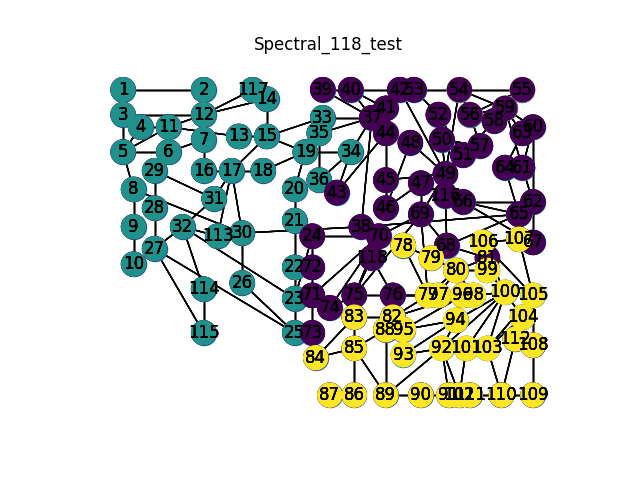
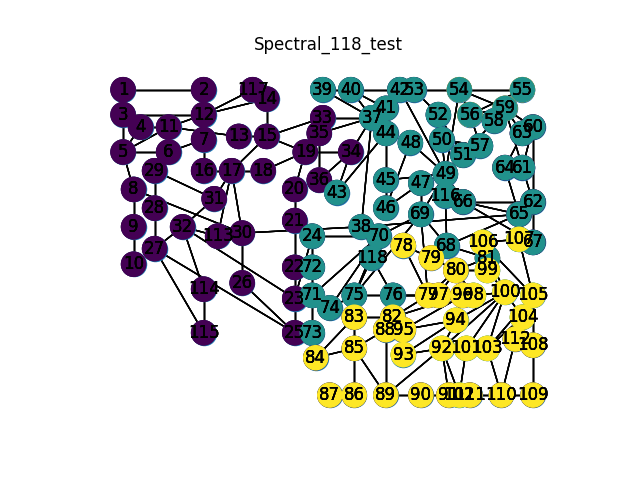
Novos testes

Changed region(s): [[0.1562, 0.1562, 0.875, 0.7188], [0.2812, 0.5625, 0.4062, 0.625], [0.2812, 0.6562, 0.3438, 0.7188]]

diff --git a/.history/test_clustering_20210921141827.py b/.history/test_clustering_20210921141827.py
@@ -173,21 +173,21 @@ nx.draw_networkx(G,coord,with_labels=True)
 edge_mat = graph_to_edge_matrix(G)
 print(edge_mat)
 
-k_clusters = 3
+k_clusters = 4
 results = []
 algorithms = {}
 
 #K-Means
-algorithms['kmeans'] = cluster.KMeans(n_clusters=k_clusters, n_init=118)
+algorithms['kmeans'] = cluster.KMeans(n_clusters=k_clusters, n_init=2)
 
 #Agglomerative Clustering
 algorithms['agglom'] = cluster.AgglomerativeClustering(n_clusters=k_clusters, linkage="ward")
 
 #Spectral Clustering
-algorithms['spectral'] = cluster.SpectralClustering(n_clusters=k_clusters, affinity="precomputed", n_init=118, assign_labels="discretize")
+algorithms['spectral'] = cluster.SpectralClustering(n_clusters=k_clusters, affinity="precomputed", n_init=2, assign_labels="discretize")
 
 #Affinity Propagation
-algorithms['affinity'] = cluster.AffinityPropagation(damping=0.8)
+algorithms['affinity'] = cluster.AffinityPropagation(damping=0.5)
 
 # Fit all models
 for model in algorithms.values():

diff --git a/.history/test_clustering_20210921141903.py b/.history/test_clustering_20210921141903.py
@@ -173,21 +173,21 @@ nx.draw_networkx(G,coord,with_labels=True)
 edge_mat = graph_to_edge_matrix(G)
 print(edge_mat)
 
-k_clusters = 3
+k_clusters = 2
 results = []
 algorithms = {}
 
 #K-Means
-algorithms['kmeans'] = cluster.KMeans(n_clusters=k_clusters, n_init=118)
+algorithms['kmeans'] = cluster.KMeans(n_clusters=k_clusters, n_init=2)
 
 #Agglomerative Clustering
 algorithms['agglom'] = cluster.AgglomerativeClustering(n_clusters=k_clusters, linkage="ward")
 
 #Spectral Clustering
-algorithms['spectral'] = cluster.SpectralClustering(n_clusters=k_clusters, affinity="precomputed", n_init=118, assign_labels="discretize")
+algorithms['spectral'] = cluster.SpectralClustering(n_clusters=k_clusters, affinity="precomputed", n_init=2, assign_labels="discretize")
 
 #Affinity Propagation
-algorithms['affinity'] = cluster.AffinityPropagation(damping=0.8)
+algorithms['affinity'] = cluster.AffinityPropagation(damping=0.5)
 
 # Fit all models
 for model in algorithms.values():

diff --git a/.history/test_clustering_20210921141740.py b/.history/test_clustering_20210921141740.py
@@ -173,21 +173,21 @@ nx.draw_networkx(G,coord,with_labels=True)
 edge_mat = graph_to_edge_matrix(G)
 print(edge_mat)
 
-k_clusters = 3
+k_clusters = 4
 results = []
 algorithms = {}
 
 #K-Means
-algorithms['kmeans'] = cluster.KMeans(n_clusters=k_clusters, n_init=118)
+algorithms['kmeans'] = cluster.KMeans(n_clusters=k_clusters, n_init=2)
 
 #Agglomerative Clustering
 algorithms['agglom'] = cluster.AgglomerativeClustering(n_clusters=k_clusters, linkage="ward")
 
 #Spectral Clustering
-algorithms['spectral'] = cluster.SpectralClustering(n_clusters=k_clusters, affinity="precomputed", n_init=118, assign_labels="discretize")
+algorithms['spectral'] = cluster.SpectralClustering(n_clusters=k_clusters, affinity="precomputed", n_init=2)
 
 #Affinity Propagation
-algorithms['affinity'] = cluster.AffinityPropagation(damping=0.8)
+algorithms['affinity'] = cluster.AffinityPropagation(damping=0.5)
 
 # Fit all models
 for model in algorithms.values():

diff --git a/.history/test_clustering_20210921141527.py b/.history/test_clustering_20210921141527.py
@@ -173,7 +173,7 @@ nx.draw_networkx(G,coord,with_labels=True)
 edge_mat = graph_to_edge_matrix(G)
 print(edge_mat)
 
-k_clusters = 3
+k_clusters = 4
 results = []
 algorithms = {}
 
@@ -184,10 +184,10 @@ algorithms['kmeans'] = cluster.KMeans(n_clusters=k_clusters, n_init=118)
 algorithms['agglom'] = cluster.AgglomerativeClustering(n_clusters=k_clusters, linkage="ward")
 
 #Spectral Clustering
-algorithms['spectral'] = cluster.SpectralClustering(n_clusters=k_clusters, affinity="precomputed", n_init=118, assign_labels="discretize")
+algorithms['spectral'] = cluster.SpectralClustering(n_clusters=k_clusters, affinity="precomputed", n_init=118)
 
 #Affinity Propagation
-algorithms['affinity'] = cluster.AffinityPropagation(damping=0.8)
+algorithms['affinity'] = cluster.AffinityPropagation(damping=0.4)
 
 # Fit all models
 for model in algorithms.values():

diff --git a/.history/test_clustering_20210921141626.py b/.history/test_clustering_20210921141626.py
@@ -173,7 +173,7 @@ nx.draw_networkx(G,coord,with_labels=True)
 edge_mat = graph_to_edge_matrix(G)
 print(edge_mat)
 
-k_clusters = 3
+k_clusters = 4
 results = []
 algorithms = {}
 
@@ -184,10 +184,10 @@ algorithms['kmeans'] = cluster.KMeans(n_clusters=k_clusters, n_init=118)
 algorithms['agglom'] = cluster.AgglomerativeClustering(n_clusters=k_clusters, linkage="ward")
 
 #Spectral Clustering
-algorithms['spectral'] = cluster.SpectralClustering(n_clusters=k_clusters, affinity="precomputed", n_init=118, assign_labels="discretize")
+algorithms['spectral'] = cluster.SpectralClustering(n_clusters=k_clusters, affinity="precomputed", n_init=118)
 
 #Affinity Propagation
-algorithms['affinity'] = cluster.AffinityPropagation(damping=0.8)
+algorithms['affinity'] = cluster.AffinityPropagation(damping=0.5)
 
 # Fit all models
 for model in algorithms.values():

diff --git a/.history/test_clustering_20210921141726.py b/.history/test_clustering_20210921141726.py
@@ -173,7 +173,7 @@ nx.draw_networkx(G,coord,with_labels=True)
 edge_mat = graph_to_edge_matrix(G)
 print(edge_mat)
 
-k_clusters = 3
+k_clusters = 4
 results = []
 algorithms = {}
 
@@ -184,10 +184,10 @@ algorithms['kmeans'] = cluster.KMeans(n_clusters=k_clusters, n_init=118)
 algorithms['agglom'] = cluster.AgglomerativeClustering(n_clusters=k_clusters, linkage="ward")
 
 #Spectral Clustering
-algorithms['spectral'] = cluster.SpectralClustering(n_clusters=k_clusters, affinity="precomputed", n_init=118, assign_labels="discretize")
+algorithms['spectral'] = cluster.SpectralClustering(n_clusters=k_clusters, affinity="precomputed", n_init=100)
 
 #Affinity Propagation
-algorithms['affinity'] = cluster.AffinityPropagation(damping=0.8)
+algorithms['affinity'] = cluster.AffinityPropagation(damping=0.5)
 
 # Fit all models
 for model in algorithms.values():

diff --git a/.history/test_clustering_20210921141943.py b/.history/test_clustering_20210921141943.py
@@ -178,16 +178,16 @@ results = []
 algorithms = {}
 
 #K-Means
-algorithms['kmeans'] = cluster.KMeans(n_clusters=k_clusters, n_init=118)
+algorithms['kmeans'] = cluster.KMeans(n_clusters=k_clusters, n_init=2)
 
 #Agglomerative Clustering
 algorithms['agglom'] = cluster.AgglomerativeClustering(n_clusters=k_clusters, linkage="ward")
 
 #Spectral Clustering
-algorithms['spectral'] = cluster.SpectralClustering(n_clusters=k_clusters, affinity="precomputed", n_init=118, assign_labels="discretize")
+algorithms['spectral'] = cluster.SpectralClustering(n_clusters=k_clusters, affinity="precomputed", n_init=2, assign_labels="discretize")
 
 #Affinity Propagation
-algorithms['affinity'] = cluster.AffinityPropagation(damping=0.8)
+algorithms['affinity'] = cluster.AffinityPropagation(damping=0.5)
 
 # Fit all models
 for model in algorithms.values():

diff --git a/.history/test_clustering_20210921142047.py b/.history/test_clustering_20210921142047.py
@@ -184,10 +184,10 @@ algorithms['kmeans'] = cluster.KMeans(n_clusters=k_clusters, n_init=118)
 algorithms['agglom'] = cluster.AgglomerativeClustering(n_clusters=k_clusters, linkage="ward")
 
 #Spectral Clustering
-algorithms['spectral'] = cluster.SpectralClustering(n_clusters=k_clusters, affinity="precomputed", n_init=118, assign_labels="discretize")
+algorithms['spectral'] = cluster.SpectralClustering(n_clusters=k_clusters, affinity="precomputed", n_init=118, assign_labels="kmeans")
 
 #Affinity Propagation
-algorithms['affinity'] = cluster.AffinityPropagation(damping=0.8)
+algorithms['affinity'] = cluster.AffinityPropagation(damping=0.5)
 
 # Fit all models
 for model in algorithms.values():

diff --git a/.history/test_clustering_20210921142021.py b/.history/test_clustering_20210921142021.py
@@ -184,10 +184,10 @@ algorithms['kmeans'] = cluster.KMeans(n_clusters=k_clusters, n_init=118)
 algorithms['agglom'] = cluster.AgglomerativeClustering(n_clusters=k_clusters, linkage="ward")
 
 #Spectral Clustering
-algorithms['spectral'] = cluster.SpectralClustering(n_clusters=k_clusters, affinity="precomputed", n_init=118, assign_labels="discretize")
+algorithms['spectral'] = cluster.SpectralClustering(n_clusters=k_clusters, affinity="precomputed", n_init=118, assign_labels="")
 
 #Affinity Propagation
-algorithms['affinity'] = cluster.AffinityPropagation(damping=0.8)
+algorithms['affinity'] = cluster.AffinityPropagation(damping=0.5)
 
 # Fit all models
 for model in algorithms.values():

diff --git a/.history/test_clustering_20210921142138.py b/.history/test_clustering_20210921142138.py
@@ -187,7 +187,7 @@ algorithms['agglom'] = cluster.AgglomerativeClustering(n_clusters=k_clusters, li
 algorithms['spectral'] = cluster.SpectralClustering(n_clusters=k_clusters, affinity="precomputed", n_init=118, assign_labels="discretize")
 
 #Affinity Propagation
-algorithms['affinity'] = cluster.AffinityPropagation(damping=0.8)
+algorithms['affinity'] = cluster.AffinityPropagation(damping=0.5)
 
 # Fit all models
 for model in algorithms.values():
